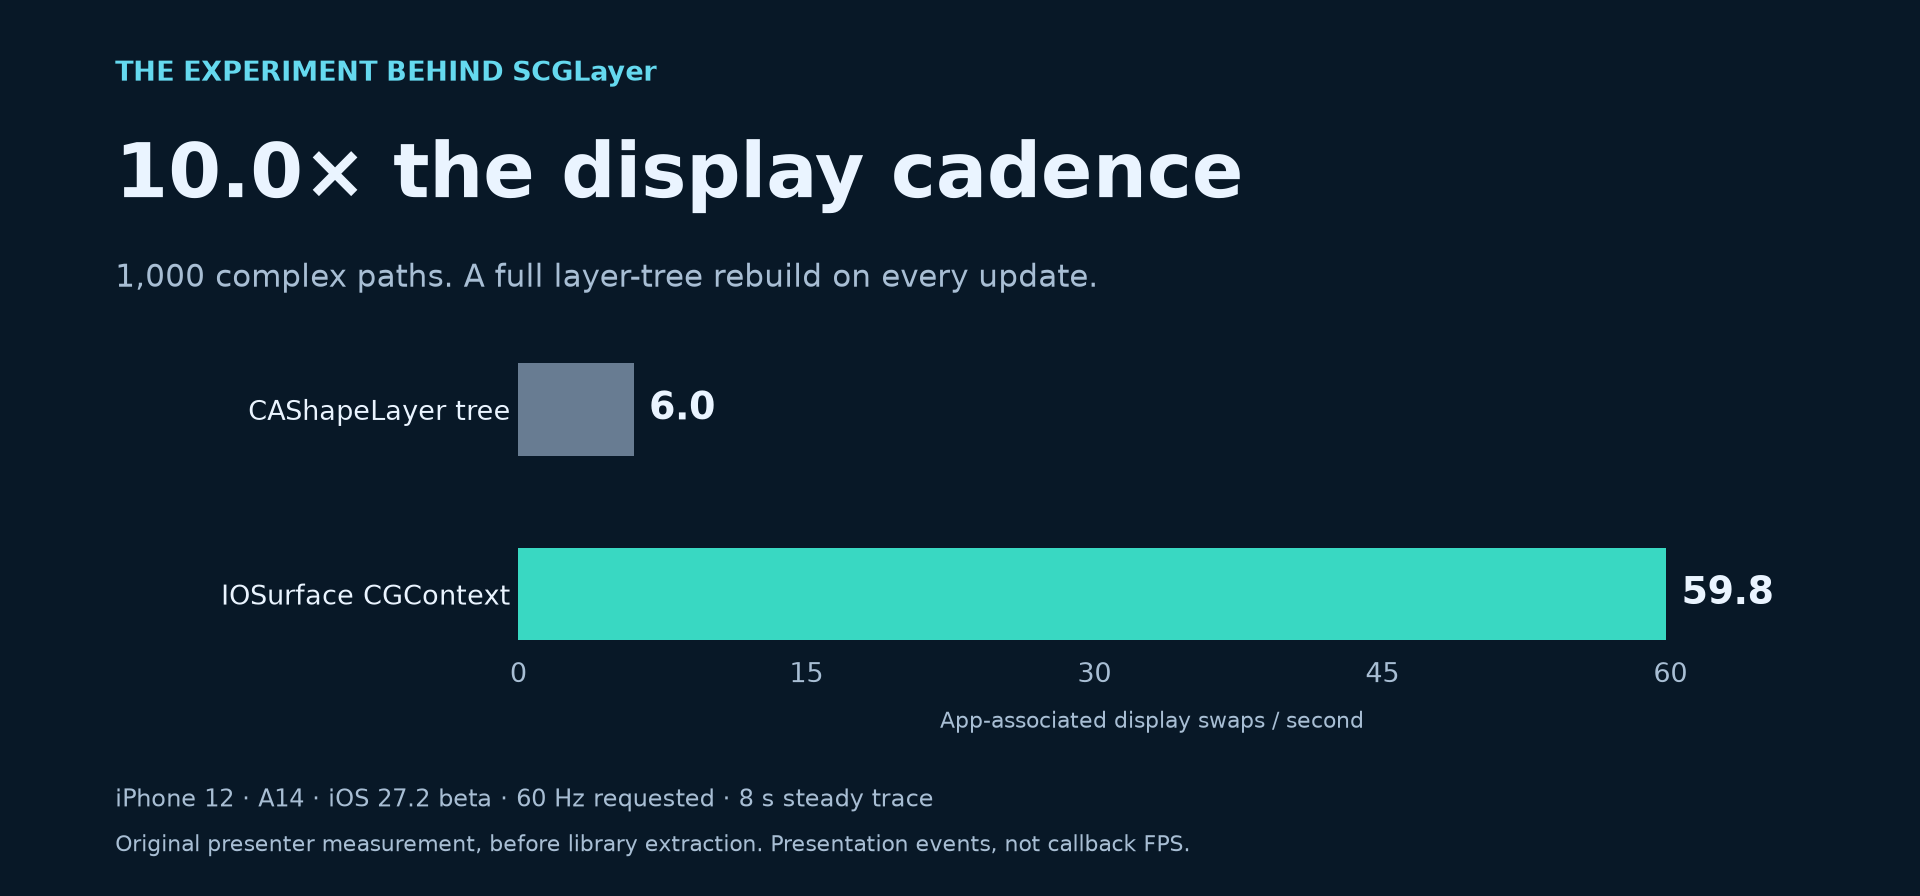
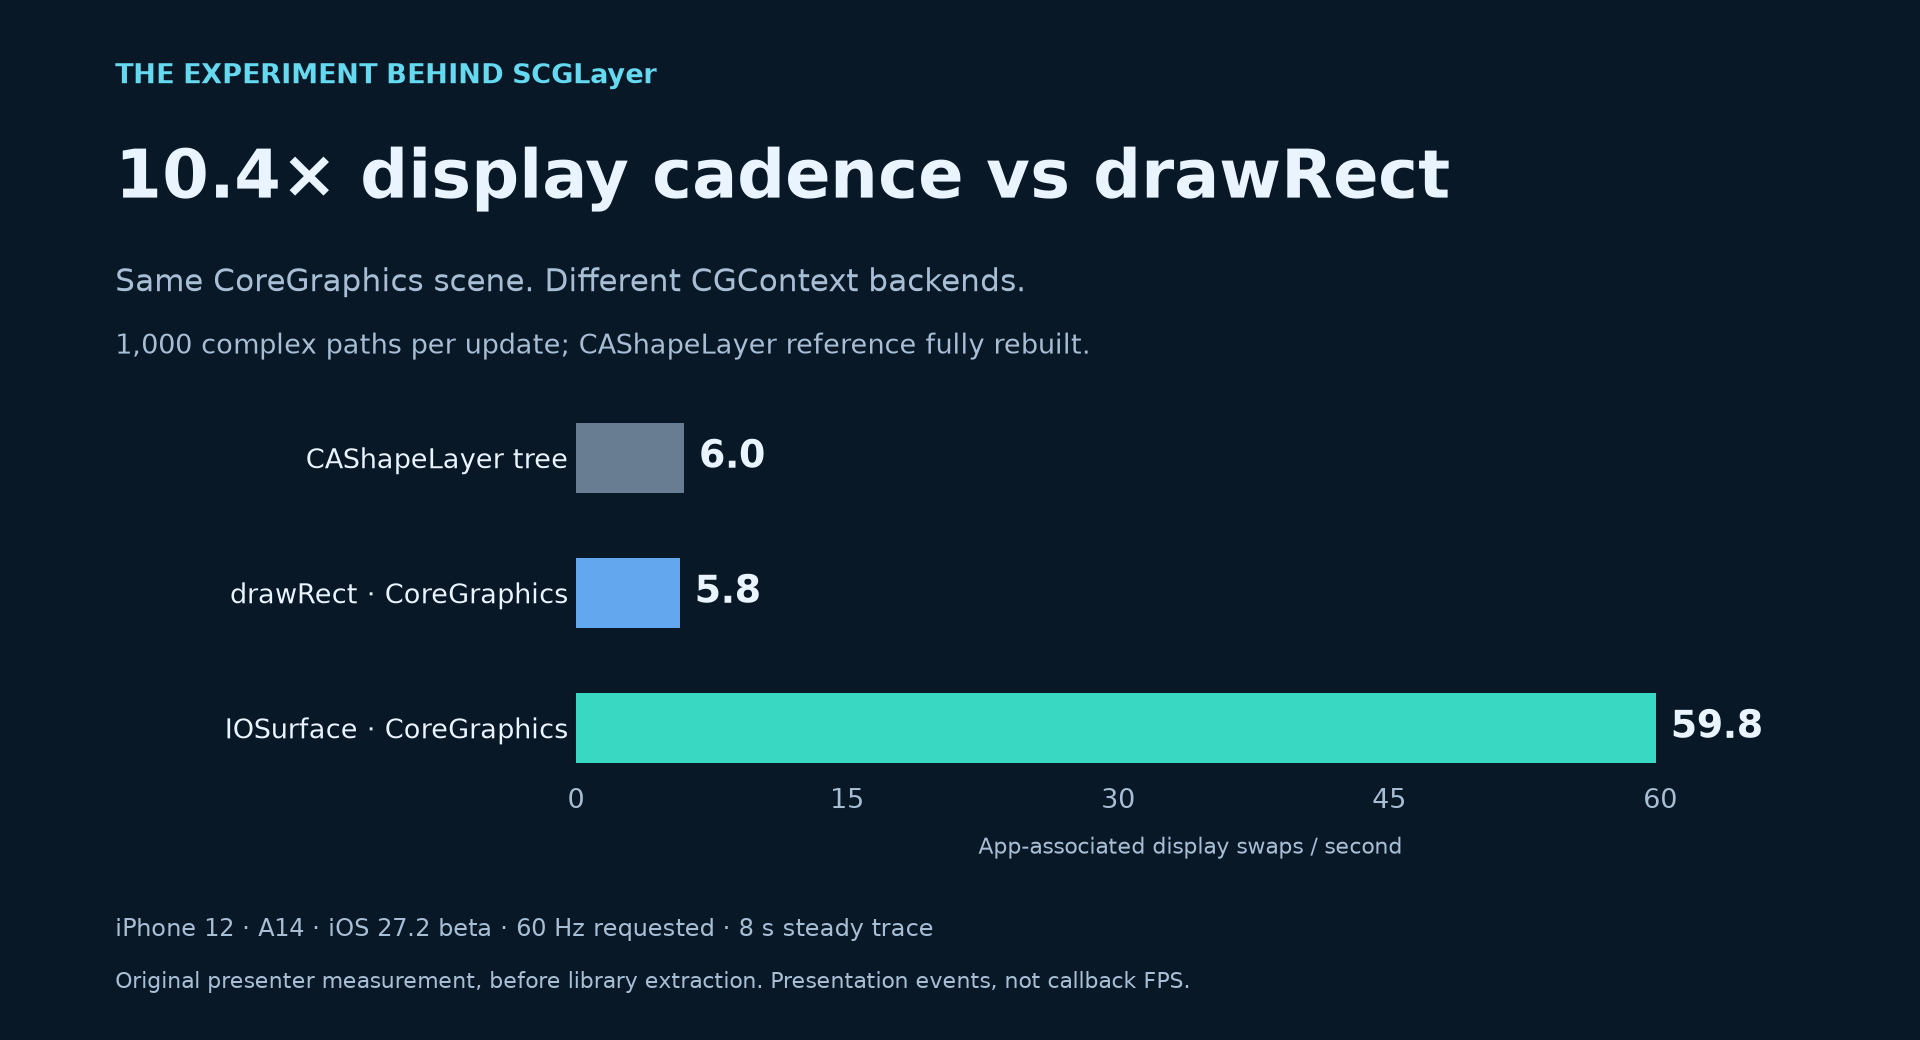
Compare drawRect and IOSurface CoreGraphics rendering in README

diff --git a/Benchmarks/scripts/render_chart.py b/Benchmarks/scripts/render_chart.py
@@ -9,26 +9,28 @@ import matplotlib.pyplot as plt
 root = Path(__file__).resolve().parents[2]
 data = json.loads((root / "Benchmarks/results/presenter-v5/summary.json").read_text())
 rows = {r["backend"]: r for r in data["rows"] if r["scene"] == "shape"}
-values = [rows["layers"]["displaySwapsPerSecond"], rows["IOSurface"]["displaySwapsPerSecond"]]
-ratio = values[1] / values[0]
+values = [rows[backend]["displaySwapsPerSecond"]
+          for backend in ["layers", "drawRect", "IOSurface"]]
+ratio = values[2] / values[1]
 plt.rcParams.update({"font.family": "sans-serif", "font.sans-serif": ["DejaVu Sans"],
                      "text.color": "#eaf4ff", "axes.labelcolor": "#a8bed4",
                      "xtick.color": "#a8bed4", "ytick.color": "#eaf4ff"})
-fig, ax = plt.subplots(figsize=(12, 5.6), dpi=160, facecolor="#081827")
+fig, ax = plt.subplots(figsize=(12, 6.5), dpi=160, facecolor="#081827")
 ax.set_facecolor("#081827")
-fig.subplots_adjust(left=.27, right=.93, top=.61, bottom=.27)
-fig.text(.06, .91, "THE EXPERIMENT BEHIND SCGLayer", fontsize=12, color="#65d9ef", weight="bold")
-fig.text(.06, .78, f"{ratio:.1f}× the display cadence", fontsize=34, weight="bold")
-fig.text(.06, .68, "1,000 complex paths. A full layer-tree rebuild on every update.", fontsize=14, color="#a8bed4")
-ax.barh([1, 0], values, height=.5, color=["#687c92", "#39d8c2"])
-ax.set_yticks([1, 0], ["CAShapeLayer tree", "IOSurface CGContext"])
-ax.set_xlim(0, 66)
+fig.subplots_adjust(left=.30, right=.94, top=.61, bottom=.25)
+fig.text(.06, .92, "THE EXPERIMENT BEHIND SCGLayer", fontsize=12, color="#65d9ef", weight="bold")
+fig.text(.06, .81, f"{ratio:.1f}× display cadence vs drawRect", fontsize=30, weight="bold")
+fig.text(.06, .72, "Same CoreGraphics scene. Different CGContext backends.", fontsize=14, color="#a8bed4")
+fig.text(.06, .66, "1,000 complex paths per update; CAShapeLayer reference fully rebuilt.", fontsize=12, color="#a8bed4")
+ax.barh([2, 1, 0], values, height=.52, color=["#687c92", "#63a8ef", "#39d8c2"])
+ax.set_yticks([2, 1, 0], ["CAShapeLayer tree", "drawRect · CoreGraphics", "IOSurface · CoreGraphics"])
+ax.set_xlim(0, 68)
 ax.set_xticks([0, 15, 30, 45, 60])
 ax.set_xlabel("App-associated display swaps / second", labelpad=10)
 ax.tick_params(axis="both", length=0, labelsize=12)
 for spine in ax.spines.values():
     spine.set_visible(False)
-for y, value in zip([1, 0], values):
+for y, value in zip([2, 1, 0], values):
     ax.text(value + .8, y, f"{value:.1f}", va="center", fontsize=17, weight="bold")
 fig.text(.06, .10, "iPhone 12 · A14 · iOS 27.2 beta · 60 Hz requested · 8 s steady trace", fontsize=11, color="#a8bed4")
 fig.text(.06, .05, "Original presenter measurement, before library extraction. Presentation events, not callback FPS.", fontsize=10, color="#a8bed4")

diff --git a/README.md b/README.md
@@ -1,16 +1,21 @@
 # SuperCoreGraphicLayer
 
-**1,000 complex paths. One CoreGraphics layer.**
+**Same CoreGraphics drawing. Different CGContext backends.**
 
 An experimental `CALayer` that draws CoreGraphics commands into an IOSurface,
 using the private context path also found in WebKit.
 
-![About 10 times the display cadence in the complex-path presenter experiment](Docs/assets/presentation-cadence.png)
+![CoreGraphics comparison: drawRect at 5.8 and the IOSurface presenter at 59.8 display swaps per second, with a rebuilt CAShapeLayer reference at 6.0](Docs/assets/presentation-cadence.png)
 
-**59.8 vs 6.0 display swaps/second** in the experiment that started this project:
-1,000 complex paths, every shape layer recreated on every update, iPhone 12.
-The next-callback p95 was about **16.8 ms in both cases**. Only the display trace
-revealed the difference.
+**59.8 vs 5.8 display swaps/second — about 10.4× the cadence of `UIView.drawRect:`**
+in the experiment that started this project: 1,000 complex paths, redrawn every
+update, on iPhone 12. The fully rebuilt CAShapeLayer reference reached **6.0**.
+
+Both CoreGraphics backends call the same scene-drawing function. `drawRect:` uses
+the [UIKit-provided CGContext](https://developer.apple.com/documentation/uikit/uigraphicsgetcurrentcontext%28%29),
+while the IOSurface presenter creates a private IOSurface-backed CGContext and
+publishes the surface as layer contents. This compares context and presentation
+paths while keeping the scene drawing code the same.
 
 These numbers are from the original IOSurface presenter, before it was extracted
 into `SCGLayer`. The library wraps that backend; the standalone demo is a newer
@@ -73,18 +78,28 @@ Runtime availability and acceleration must be checked on your actual target.
 
 ## What the experiment says
 
-| 1,000 complex paths | Rebuilt CAShapeLayer tree | Original IOSurface presenter |
-| --- | ---: | ---: |
-| App-associated display swaps / second | 6.0 | 59.8 |
-| Display-swap spacing p95 | 183.5 ms | 16.7 ms |
-| Next callback p95, same trace | 16.8 ms | 16.7 ms |
-| App CPU, uninstrumented, % of one core | 59.0% | 70.3% |
-| App footprint at end of run | 7.3 MiB | 81.7 MiB |
+| 1,000 complex paths | Rebuilt CAShapeLayer tree | drawRect (CoreGraphics) | IOSurface presenter (CoreGraphics) |
+| --- | ---: | ---: | ---: |
+| App-associated display swaps / second | 6.0 | 5.8 | 59.8 |
+| Display-swap spacing p95 | 183.5 ms | 183.6 ms | 16.7 ms |
+| Next callback p95, same trace | 16.8 ms | 183.7 ms | 16.7 ms |
+| App CPU, uninstrumented, % of one core | 59.0% | 97.8% | 70.3% |
+| App footprint at end of run | 7.3 MiB | 21.1 MiB | 81.7 MiB |
+
+The CAShapeLayer and IOSurface callback intervals were both near one refresh
+period despite very different display cadence. The `drawRect` callback interval
+also reflected long App-side drawing work. Presentation comes from the display
+trace, independently of those callback measurements.
 
 Display data comes from one 8-second steady trace per condition; process metrics
 are medians of two separate 10-second runs. The baseline fully rebuilds the tree;
 retained trees have different costs. This is a specific dense-path workload,
 not a general speedup for every CALayer or CoreGraphics operation.
+
+For 1,000 linear gradients, the same two CoreGraphics paths reached **47.2**
+(`drawRect`) and **59.3** (IOSurface) display swaps/second. The size of the benefit
+depends on the drawing workload; [the full records](Benchmarks/README.md) include
+both scenes.
 
 **App footprint excludes some render-server and driver allocations.** The table
 does not establish total graphics memory savings; this presenter used more App

diff --git a/Benchmarks/README.md b/Benchmarks/README.md
@@ -66,6 +66,19 @@ and one trace per condition do not establish statistical confidence intervals.
 
 ### Drawing workload
 
+The `drawRect` and IOSurface backends both call the same `DemoScene::draw`
+CoreGraphics routine, with the same geometry, resource variants, and draw order.
+`drawRect` obtains its context from `UIGraphicsGetCurrentContext()` inside UIKit's
+drawing callback. The presenter creates its own IOSurface-backed context with
+the private constructor, flushes drawing, and publishes the surface as contents.
+The comparison therefore changes the context/presentation path while keeping
+the scene drawing code the same. The CAShapeLayer tree is a separate reference.
+
+For complex paths, the measured display cadence ratio is 59.7816 / 5.7668 ≈ 10.4×
+versus `drawRect`; for linear gradients it is 59.2859 / 47.1818 ≈ 1.26×. Ratios use
+the unrounded trace rates. These are presentation-rate ratios for the recorded
+workload, not isolated GPU speedups or guarantees about every CoreGraphics operation.
+
 - **Shape:** opaque 24×24 pt path, 16 cubic outer segments, a four-segment
   elliptical hole, even-odd fill, and a 1.25 pt white round stroke.
 - **Gradient:** opaque 24×24 pt rectangle, three sRGB stops at 0, 0.4, 1 along
